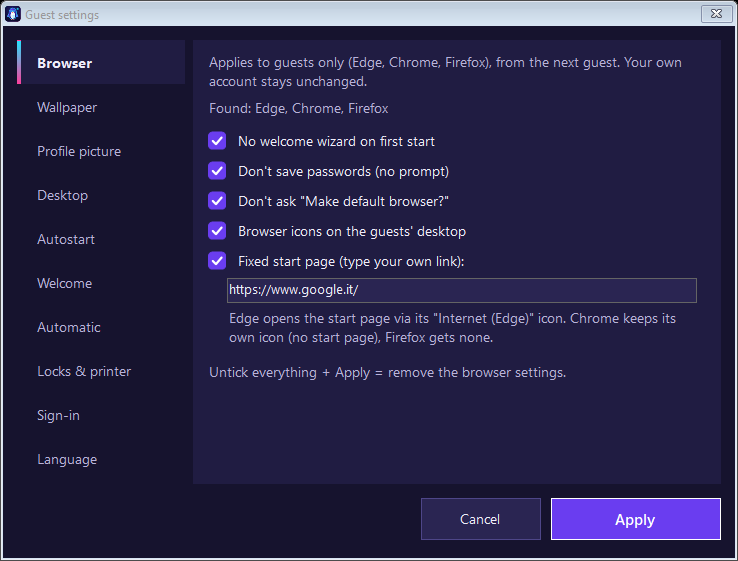
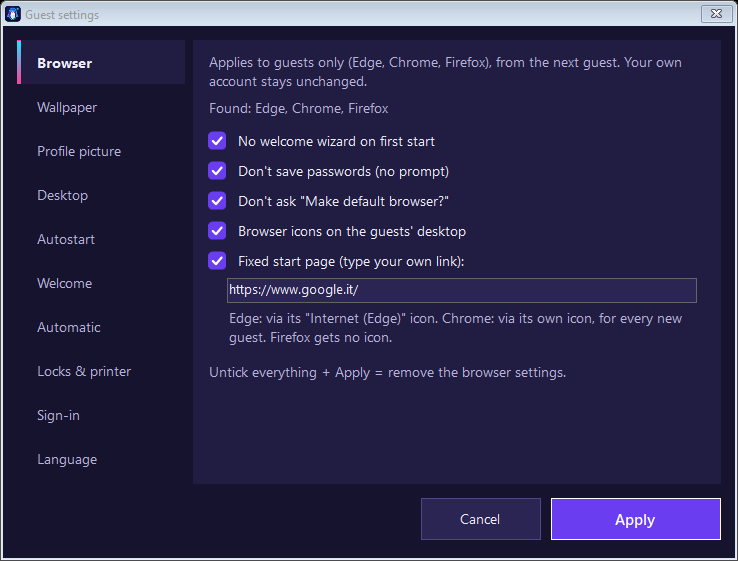
FreshGuest 1.29: Chrome start page via a preferences file for new profiles
initial_preferences next to chrome.exe gives every new guest profile the start page,
skips the first-run UI and creates no extra desktop icon. An existing file is backed
up and restored; the reset tool cleans it up.

Changed region(s): [[0.3117, 0.5455, 0.935, 0.6364]]

diff --git a/anleitung/vorlage.html b/anleitung/vorlage.html
@@ -171,7 +171,7 @@
     <li><b>Kennwörter nicht speichern:</b> keine Frage „Kennwort speichern?“.</li>
     <li><b>Nicht als Standardbrowser fragen.</b></li>
     <li><b>Browser-Symbole auf den Desktop:</b> „Internet (Edge)“ öffnet Edge mit deiner Startseite. Chrome behält sein eigenes Symbol „Google Chrome“: Fehlt es auf dem gemeinsamen Desktop, legt Chrome es bei jedem Gast beim ersten Start selbst neu an – dann wäre es doppelt. Firefox bekommt bewusst kein Symbol: Er bleibt immer in der Sprache, in der er installiert wurde, während sich Edge und Chrome nach der Windows-Sprache des Gastes richten. Am besten Firefox auf dem Gäste-PC deinstallieren. Ein Browser, der nur für dein Konto installiert ist, fehlt bei Gästen; das Protokoll weist darauf hin. Jedes Programm erscheint beim Gast nur einmal: Liegt z. B. VLC schon auf dem gemeinsamen Desktop und du fügst es im Reiter „Desktop“ noch einmal hinzu, nimmt FreshGuest das doppelte Symbol für Gäste weg (dein Konto behält es); beim Abschalten oder Deinstallieren kommt alles zurück.</li>
-    <li><b>Feste Startseite:</b> eigenen Link eintippen, z. B. die Seite deiner Ferienwohnung. Firefox öffnet sie immer. Edge erlaubt das auf privaten PCs nicht – er öffnet die Startseite über sein Symbol „Internet (Edge)“, das es mit fester Startseite immer gibt. Chrome öffnet ohne feste Startseite.</li>
+    <li><b>Feste Startseite:</b> eigenen Link eintippen, z. B. die Seite deiner Ferienwohnung. Firefox öffnet sie immer. Edge erlaubt das auf privaten PCs nicht – er öffnet die Startseite über sein Symbol „Internet (Edge)“, das es mit fester Startseite immer gibt. Chrome öffnet sie über sein eigenes Symbol „Google Chrome“: FreshGuest legt dafür eine Vorgabedatei für neue Chrome-Profile an – jeder Gast bekommt die Startseite, ohne Einrichtungsfragen und ohne zusätzliches Desktop-Symbol. Dein eigenes Chrome bleibt unverändert.</li>
     <li>Diese Browser-Einstellungen gelten <b>nur für Gäste</b>, ab dem nächsten Gast – dein eigenes Konto bleibt unverändert. Alle Häkchen weg + Übernehmen entfernt sie wieder.</li>
   </ul>
 
@@ -359,7 +359,7 @@ reg unload HKLM\FG</pre></div>
     <li><b>Non salvare le password:</b> nessuna domanda «Salvare la password?».</li>
     <li><b>Non chiedere di diventare il browser predefinito.</b></li>
     <li><b>Icone dei browser sul desktop:</b> «Internet (Edge)» apre Edge con la tua pagina iniziale. Chrome mantiene la sua icona «Google Chrome»: se manca sul desktop comune, Chrome la ricrea per ogni ospite al primo avvio – e sarebbe doppia. Firefox volutamente non riceve icone: resta sempre nella lingua in cui è stato installato, mentre Edge e Chrome seguono la lingua di Windows dell'ospite. Meglio disinstallare Firefox dal PC ospiti. Un browser installato solo per il tuo account manca agli ospiti; il registro lo segnala. Ogni programma appare una sola volta: se ad es. VLC è già sul desktop comune e lo aggiungi di nuovo nella scheda «Desktop», FreshGuest toglie l'icona doppia per gli ospiti (il tuo account la mantiene); disattivando o disinstallando torna tutto.</li>
-    <li><b>Pagina iniziale fissa:</b> inserisci il tuo link, ad es. la pagina del tuo appartamento. Firefox la apre sempre. Edge non lo permette sui PC privati – apre la pagina iniziale tramite la sua icona «Internet (Edge)», che con la pagina iniziale fissa c'è sempre. Chrome si apre senza pagina iniziale fissa.</li>
+    <li><b>Pagina iniziale fissa:</b> inserisci il tuo link, ad es. la pagina del tuo appartamento. Firefox la apre sempre. Edge non lo permette sui PC privati – apre la pagina iniziale tramite la sua icona «Internet (Edge)», che con la pagina iniziale fissa c'è sempre. Chrome la apre tramite la sua icona «Google Chrome»: FreshGuest crea un file di impostazioni per i nuovi profili di Chrome – ogni ospite riceve la pagina iniziale, senza domande di configurazione e senza icone in più. Il tuo Chrome resta invariato.</li>
     <li>Queste impostazioni del browser valgono <b>solo per gli ospiti</b>, dal prossimo ospite – il tuo account resta invariato. Togli tutte le spunte + Applica per rimuoverle.</li>
   </ul>
 
@@ -548,7 +548,7 @@ reg unload HKLM\FG</pre></div>
     <li><b>Don't save passwords:</b> no “Save password?” prompt.</li>
     <li><b>Don't ask to become the default browser.</b></li>
     <li><b>Browser icons on the desktop:</b> “Internet (Edge)” opens Edge with your start page. Chrome keeps its own “Google Chrome” icon: if it is missing from the shared desktop, Chrome recreates it for every guest on first start – and it would be there twice. Firefox deliberately gets no icon: it always stays in the language it was installed in, while Edge and Chrome follow the guest's Windows language. Best uninstall Firefox from the guest PC. A browser installed for your account only is missing for guests; the log points this out. Every program appears only once: if e.g. VLC is already on the shared desktop and you add it again in the “Desktop” tab, FreshGuest removes the duplicate for guests (your account keeps it); switching off or uninstalling puts everything back.</li>
-    <li><b>Fixed start page:</b> type your own link, e.g. your holiday flat's page. Firefox always opens it. Edge doesn't allow this on private PCs – it opens the start page via its “Internet (Edge)” icon, which always exists with a fixed start page. Chrome opens without a fixed start page.</li>
+    <li><b>Fixed start page:</b> type your own link, e.g. your holiday flat's page. Firefox always opens it. Edge doesn't allow this on private PCs – it opens the start page via its “Internet (Edge)” icon, which always exists with a fixed start page. Chrome opens it via its own “Google Chrome” icon: FreshGuest adds a preferences file for new Chrome profiles – every guest gets the start page, without setup questions and without an extra desktop icon. Your own Chrome stays unchanged.</li>
     <li>These browser settings apply <b>to guests only</b>, from the next guest – your own account stays unchanged. Untick everything + Apply removes them again.</li>
   </ul>
 

diff --git a/src/FreshGuest.cs b/src/FreshGuest.cs
@@ -934,9 +934,9 @@ namespace GaesteSchutz
             // Desktop, legt Chrome beim ersten Start jedes Gastes „Google Chrome“ selbst wieder an (Test am Gäste-PC).
             // Also bleibt sein eigenes Symbol – ohne feste Startseite (die erlaubt Chrome auf privaten PCs nur so).
             if (ChromeExe == null) missing.Add("Chrome");
-            else log(L.T("  Chrome behält sein eigenes Symbol „Google Chrome“ (sonst legt Chrome es bei jedem Gast neu an) – die feste Startseite gilt nur für Edge.",
-                         "  Chrome mantiene la sua icona «Google Chrome» (altrimenti Chrome la ricrea per ogni ospite) – la pagina iniziale fissa vale solo per Edge.",
-                         "  Chrome keeps its own \"Google Chrome\" icon (otherwise Chrome recreates it for every guest) – the fixed start page applies to Edge only."));
+            else log(L.T("  Chrome behält sein eigenes Symbol „Google Chrome“ (sonst legt Chrome es bei jedem Gast neu an).",
+                         "  Chrome mantiene la sua icona «Google Chrome» (altrimenti Chrome la ricrea per ogni ospite).",
+                         "  Chrome keeps its own \"Google Chrome\" icon (otherwise Chrome recreates it for every guest)."));
             if (made.Count > 0)
                 log(L.T("✔ Symbole auf dem Desktop der Gäste: ", "✔ Icone sul desktop degli ospiti: ", "✔ Icons on the guests' desktop: ") +
                     string.Join(", ", made.Select(n => "Internet (" + n + ")").ToArray()));
@@ -1020,6 +1020,59 @@ namespace GaesteSchutz
         static string NormPath(string p)
         {
             try { return Path.GetFullPath(Environment.ExpandEnvironmentVariables(p ?? "")).TrimEnd('\\'); } catch { return p ?? ""; }
+        }
+
+        // Chrome: Startseite über die Vorgabedatei für NEUE Profile (initial_preferences neben chrome.exe). Jeder Gast
+        // ist ein neues Konto -> neues Chrome-Profil -> bekommt die Startseite, ohne Einrichtungsfragen und ohne eigenes
+        // Desktop-Symbol. Kein Richtlinien-Eintrag (die erlaubt Chrome auf privaten PCs für die Startseite nicht).
+        // Bestehende Profile (dein Konto) ändern sich nicht. Eine schon vorhandene Datei wird gesichert und
+        // beim Abschalten zurückgelegt.
+        const string ChromePrefsName = "initial_preferences";
+
+        static void SyncChromePrefs(Store store, string url, Action<string> log)
+        {
+            if (Program.Demo) return;
+            if (log == null) log = s => { };
+            string written = store.Get("ChromeVorgaben");             // Pfad unserer Datei
+            try
+            {
+                // alte eigene Datei weg, gesicherte zurück
+                if (!string.IsNullOrEmpty(written))
+                {
+                    if (File.Exists(written)) File.Delete(written);
+                    string bak = written + ".FreshGuest-Sicherung";
+                    if (File.Exists(bak)) File.Move(bak, written);
+                    store.Remove("ChromeVorgaben");
+                }
+                string exe = ChromeExe;
+                if (url == null || exe == null) return;
+                string file = Path.Combine(Path.GetDirectoryName(exe), ChromePrefsName);
+                if (File.Exists(file)) File.Copy(file, file + ".FreshGuest-Sicherung", true);
+                string u = url.Replace("\\", "\\\\").Replace("\"", "\\\"");
+                string json =
+                    "{\r\n" +
+                    "  \"homepage\": \"" + u + "\",\r\n" +
+                    "  \"homepage_is_newtabpage\": false,\r\n" +
+                    "  \"browser\": { \"show_home_button\": true, \"check_default_browser\": false },\r\n" +
+                    "  \"session\": { \"restore_on_startup\": 4, \"startup_urls\": [ \"" + u + "\" ] },\r\n" +
+                    "  \"first_run_tabs\": [ \"" + u + "\" ],\r\n" +
+                    "  \"sync_promo\": { \"show_on_first_run_allowed\": false },\r\n" +
+                    "  \"distribution\": {\r\n" +
+                    "    \"skip_first_run_ui\": true,\r\n" +
+                    "    \"suppress_first_run_default_browser_prompt\": true,\r\n" +
+                    "    \"suppress_first_run_bubble\": true,\r\n" +
+                    "    \"do_not_create_desktop_shortcut\": true,\r\n" +
+                    "    \"do_not_create_quick_launch_shortcut\": true,\r\n" +
+                    "    \"do_not_create_taskbar_shortcut\": true\r\n" +
+                    "  }\r\n" +
+                    "}\r\n";
+                File.WriteAllText(file, json, new UTF8Encoding(false));
+                store.Set("ChromeVorgaben", file);
+                log(L.T("✔ Chrome: Startseite für jeden neuen Gast (Vorgabedatei für neue Profile; dein Chrome bleibt unverändert)",
+                        "✔ Chrome: pagina iniziale per ogni nuovo ospite (file di impostazioni per i nuovi profili; il tuo Chrome resta invariato)",
+                        "✔ Chrome: start page for every new guest (preferences file for new profiles; your Chrome stays unchanged)"));
+            }
+            catch (Exception ex) { log("  Chrome: " + ex.Message); }
         }
 
         static bool IsChrome(string target) { return Path.GetFileName(target ?? "").Equals("chrome.exe", StringComparison.OrdinalIgnoreCase); }
@@ -1209,6 +1262,7 @@ namespace GaesteSchutz
             List<string> made = MakeShortcuts(o, url, log);
             SyncPublicDuplicates(store, log);
             SetGuestIconFlag(made.Count > 0);
+            SyncChromePrefs(store, (o & BrowserOpt.StartPage) != 0 ? url : null, log);
             if ((o & BrowserOpt.NoWelcome) != 0) log(L.T("✔ Kein Willkommensassistent", "✔ Nessuna procedura di benvenuto", "✔ No welcome wizard"));
             if ((o & BrowserOpt.NoPasswords) != 0) log(L.T("✔ Kennwörter werden nicht gespeichert", "✔ Le password non vengono salvate", "✔ Passwords are not saved"));
             if ((o & BrowserOpt.NoDefaultPrompt) != 0) log(L.T("✔ Keine Standardbrowser-Frage", "✔ Nessuna richiesta browser predefinito", "✔ No default-browser prompt"));
@@ -1235,6 +1289,7 @@ namespace GaesteSchutz
                 GuestExtras.WithDefaultHive(ClearHive);
                 SyncPublicDuplicates(store, null);       // Browser-Symbole weg – Doppelte vom Reiter „Desktop“ bleiben versteckt
                 SetGuestIconFlag(false);
+                SyncChromePrefs(store, null, null);
             }
             store.Set("BrowserAktiv", "0");
             if (log != null) log(L.T("Browser-Einstellungen für Gäste entfernt.", "Impostazioni browser per gli ospiti rimosse.",
@@ -2293,9 +2348,9 @@ namespace GaesteSchutz
             chkStart.CheckedChanged += (s, e) => txtUrl.Enabled = chkStart.Checked;
             txtUrl.Enabled = chkStart.Checked;
             var note = AddInfo(tBrowser, L.T(
-                "Edge öffnet die Startseite über sein Symbol „Internet (Edge)“. Chrome behält sein eigenes Symbol (ohne Startseite), Firefox bekommt keins.",
-                "Edge apre la pagina iniziale tramite l'icona «Internet (Edge)». Chrome mantiene la sua icona (senza pagina iniziale), Firefox nessuna.",
-                "Edge opens the start page via its \"Internet (Edge)\" icon. Chrome keeps its own icon (no start page), Firefox gets none."), 268, 40);
+                "Edge: über sein Symbol „Internet (Edge)“. Chrome: über sein eigenes Symbol, für jeden neuen Gast. Firefox bekommt kein Symbol.",
+                "Edge: tramite l'icona «Internet (Edge)». Chrome: tramite la sua icona, per ogni nuovo ospite. Firefox non riceve icone.",
+                "Edge: via its \"Internet (Edge)\" icon. Chrome: via its own icon, for every new guest. Firefox gets no icon."), 268, 40);
             note.Left = 32; note.Width = 474;
             AddInfo(tBrowser, L.T("Alle Häkchen weg + Übernehmen = Browser-Einstellungen entfernen.",
                 "Togli tutte le spunte + Applica = rimuovi le impostazioni del browser.",

diff --git a/ANLEITUNG.md b/ANLEITUNG.md
@@ -90,7 +90,7 @@ Am 09.11.2026 auf dem echten Gäste-PC (Windows 11 Pro, italienisch) mit **Versi
 **Auf dem Gäste-PC bestätigt (1.3):** Hintergrund für Gäste.
 **Lizenz (ab der Veröffentlichung):** GNU GPL v3.0 oder neuer (statt MIT + Commons Clause). Veränderte Fassungen dürfen nicht „FreshGuest“ heißen und nicht das Logo tragen.
 
-**Neu in 1.29:** Test am Gäste-PC: Nach dem Entfernen tauchte „Google Chrome“ beim ersten Start von Chrome (Suchmaschinen-Auswahl) wieder auf – Chrome legt ein Benutzer-Symbol an, wenn das für alle fehlt. Darum kein „Internet (Chrome)“ mehr: Chromes eigenes Symbol auf dem gemeinsamen Desktop bleibt (`IsChrome` in `HidePublicDuplicates`), weitere Chrome-Verknüpfungen auf dem Gast-Desktop kommen in die Sicherung. Feste Startseite nur noch für Edge über „Internet (Edge)“.
+**Neu in 1.29:** Test am Gäste-PC: Nach dem Entfernen tauchte „Google Chrome“ beim ersten Start von Chrome (Suchmaschinen-Auswahl) wieder auf – Chrome legt ein Benutzer-Symbol an, wenn das für alle fehlt. Darum kein „Internet (Chrome)“ mehr: Chromes eigenes Symbol auf dem gemeinsamen Desktop bleibt (`IsChrome` in `HidePublicDuplicates`), weitere Chrome-Verknüpfungen auf dem Gast-Desktop kommen in die Sicherung. Feste Startseite für Edge über „Internet (Edge)“, für Chrome über die Vorgabedatei für neue Profile `initial_preferences` neben chrome.exe (Startseite, `first_run_tabs`, ohne Einrichtung, `do_not_create_desktop_shortcut`; vorhandene Datei → `.FreshGuest-Sicherung`, Store `ChromeVorgaben`, Rücksetz-Werkzeug räumt mit auf). **Am Gäste-PC noch zu testen.**
 
 **Neu in 1.28** (am Gäste-PC bestätigt, in 1.29 für Chrome ersetzt)**:** „Google Chrome“ war beim Gast trotzdem doppelt: Chrome legt es bei jedem neuen Konto beim ersten Anmelden selbst auf dessen eigenen Desktop (Active Setup). Jetzt entfernt die Gast-Sitzung (`--gast-start`) neben „Internet (Edge/Chrome)“ jede weitere Verknüpfung zum selben Browser vom eigenen Desktop – sofort, nach 8 und nach 30 Sekunden (`RemoveOwnBrowserDuplicates`). Merker `GastBrowserSymbole` in `HKLM\SOFTWARE\FreshGuest` (startet den Gaststart auch ohne andere Gast-Funktion). **Am Gäste-PC noch zu testen.**
 

diff --git a/README.md b/README.md
@@ -54,7 +54,7 @@ Commercial use is explicitly allowed (see [License](#license)).
 
 All settings apply to guests only – your own account stays as it is.
 
-- **Browser** – Edge and Chrome without first-run wizards, password saving or “make default” prompts. Edge gets an “Internet (Edge)” desktop icon that opens your fixed start page; Chrome keeps its own icon (Chrome would otherwise recreate it for every guest). Both follow the guest's Windows language (Firefox stays in its install language, so it gets no icon)
+- **Browser** – Edge and Chrome without first-run wizards, password saving or “make default” prompts. Fixed start page: Edge via an “Internet (Edge)” desktop icon; Chrome via its own icon, using a preferences file for new Chrome profiles (every guest is a new profile; your own Chrome is unchanged). Both follow the guest's Windows language (Firefox stays in its install language, so it gets no icon)
 - **Wallpaper** and **profile picture** for guests – the picture also replaces the grey question-mark figure on the “Guest” tile of the sign-in screen
 - **Desktop** – files, programs and links every new guest finds on the desktop; every program appears only once, even if it is also on the shared desktop (your account keeps its icons)
 - **Autostart** – open a page or program when a guest signs in
